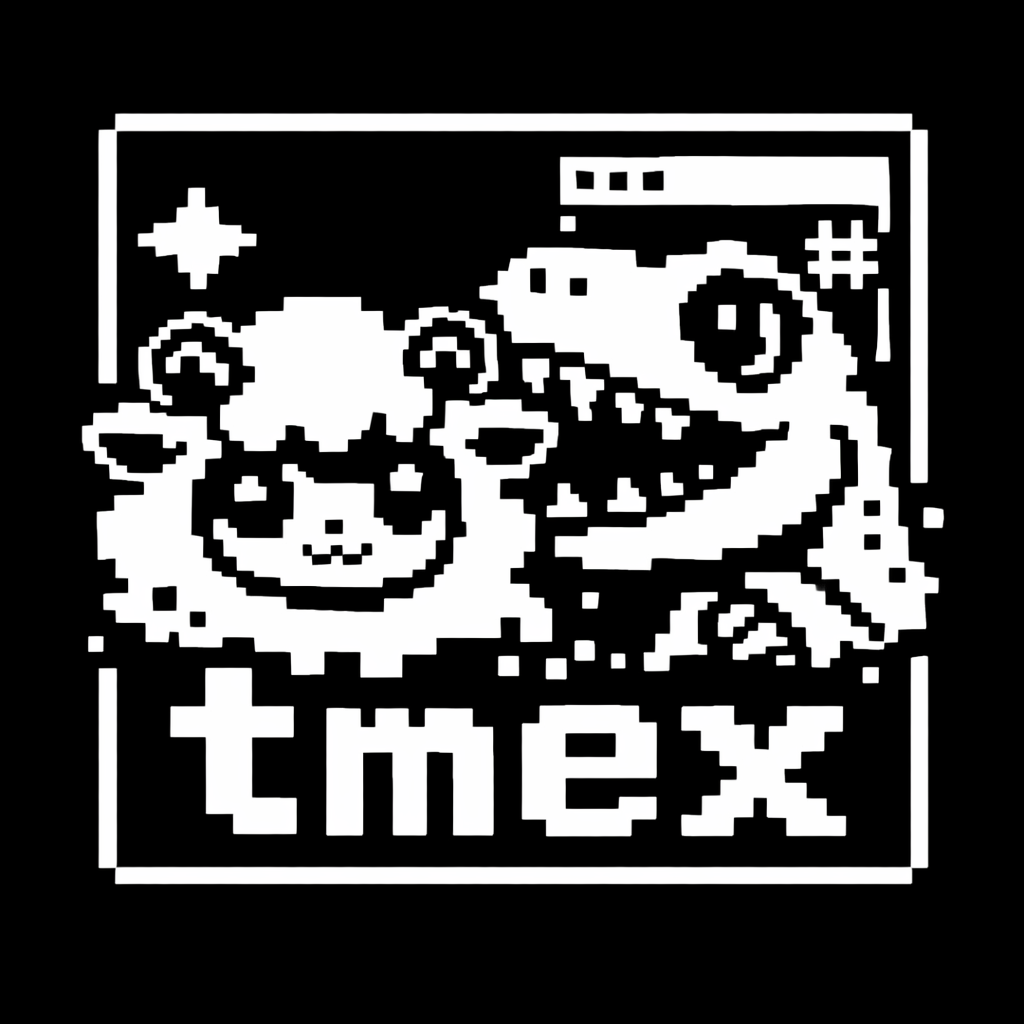
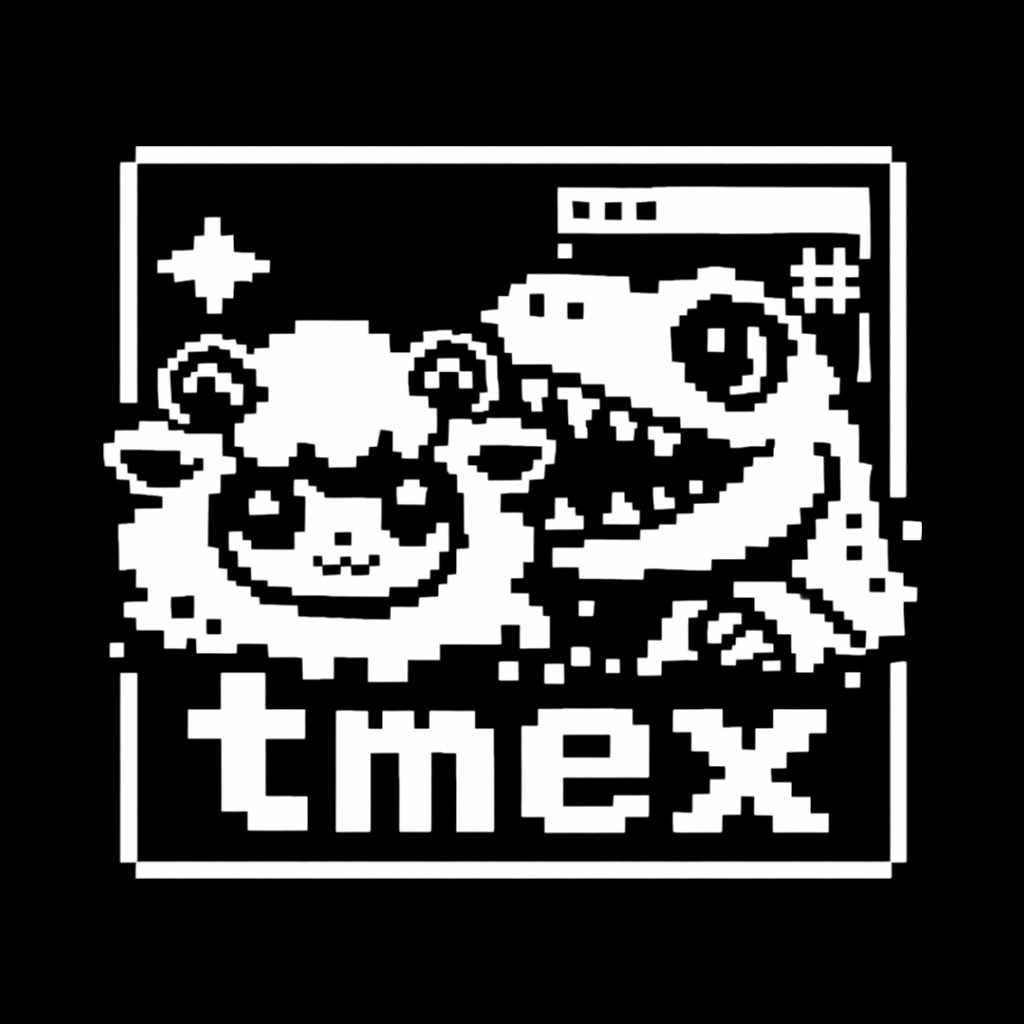
feat(pwa): 图标增加安全区留白，maskable 单独成图适配圆形遮罩
方形/桌面场景用 tmex.png（内容居中、四周约 10% 留白）；新增
tmex-maskable.png 按圆形安全区（直径 80%，依内容最大半径缩放），
Pixel 等圆形遮罩下整块内容完整可见、比例正常，不再被切角。
manifest 的 maskable 项改指 /tmex-maskable.png。

Changed region(s): [[0.0625, 0.0938, 0.9375, 0.875]]

diff --git a/apps/gateway/src/api/index.ts b/apps/gateway/src/api/index.ts
@@ -646,7 +646,7 @@ async function handleGetManifest(method: 'GET' | 'HEAD'): Promise<Response> {
         purpose: 'any',
       },
       {
-        src: '/tmex.png',
+        src: '/tmex-maskable.png',
         sizes: '1024x1024',
         type: 'image/png',
         purpose: 'maskable',
